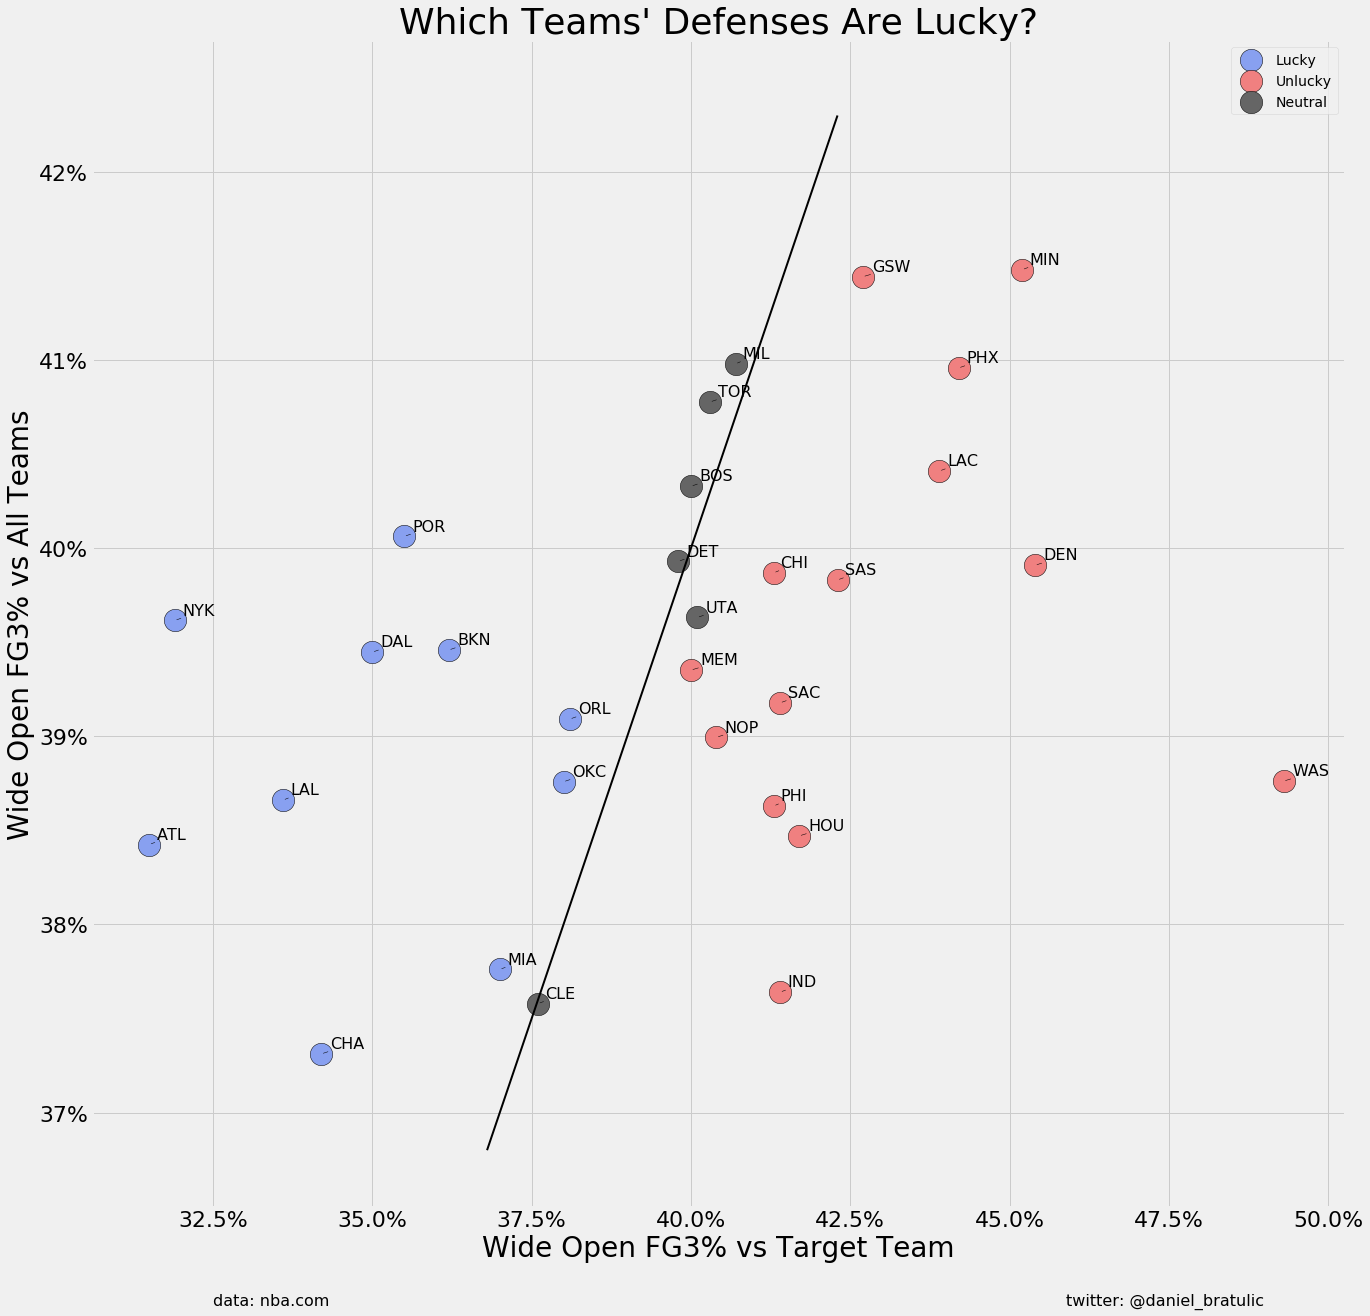
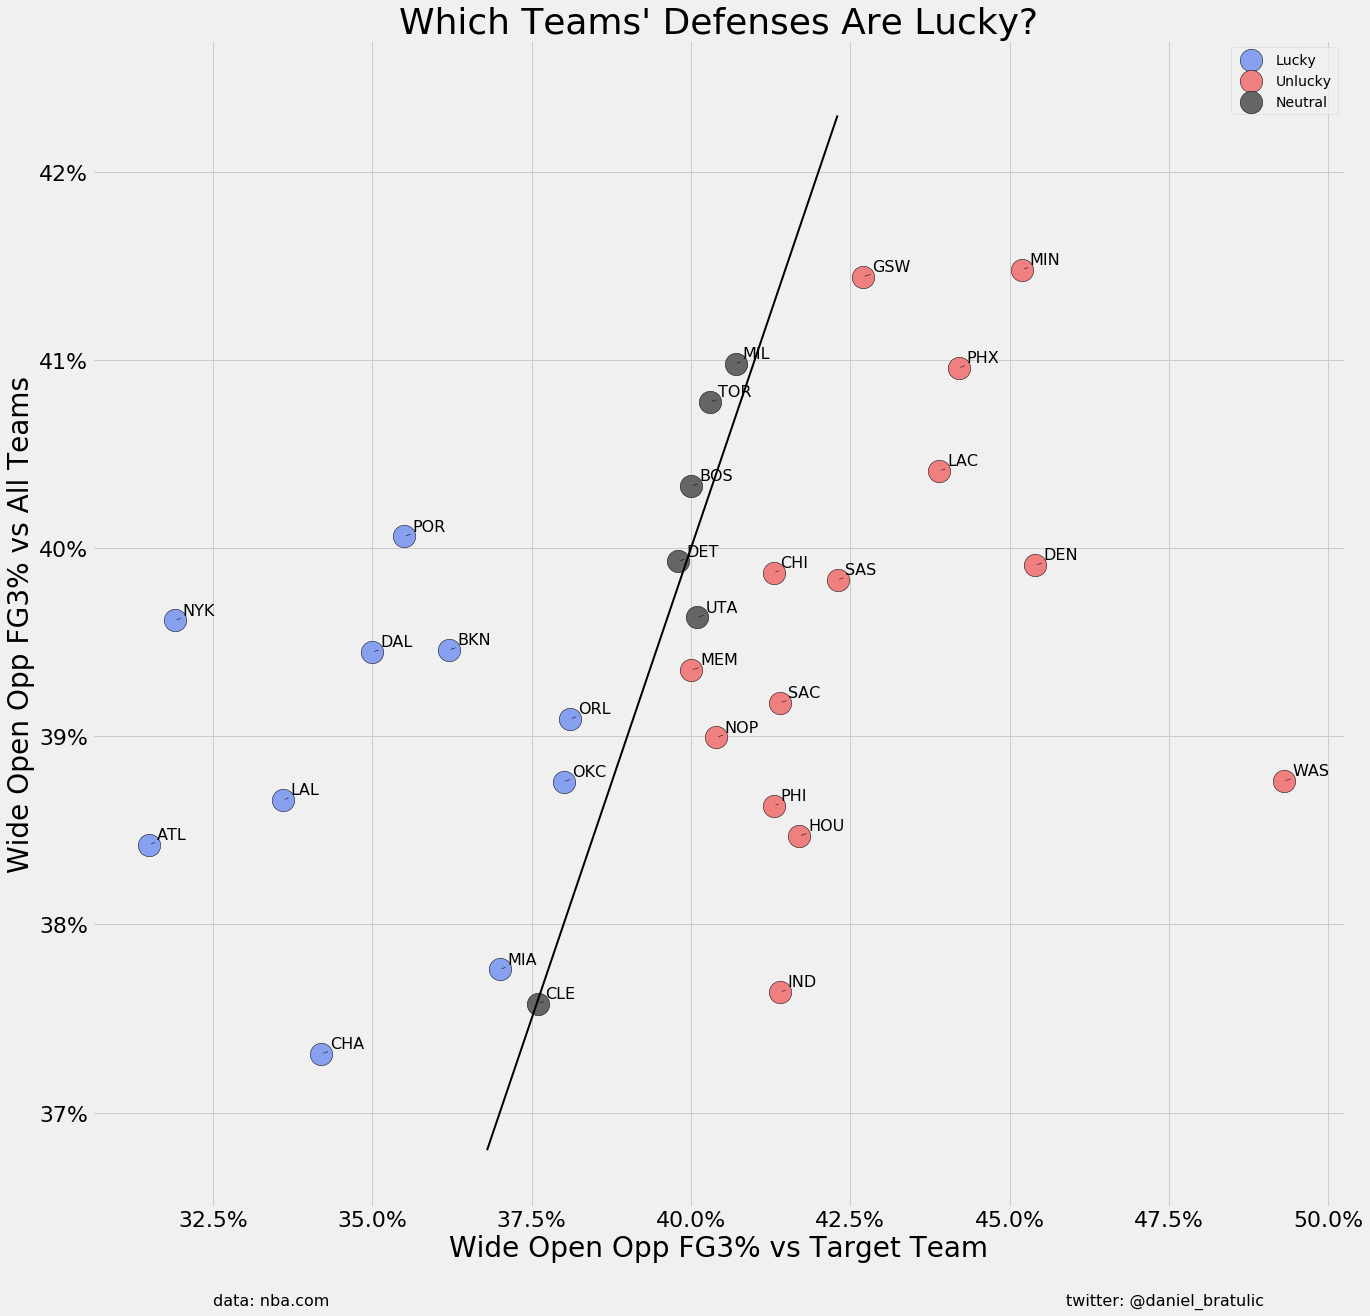
Modified texts as well

Changed region(s): [[0.3372, 0.9347, 0.7051, 0.9658], [0.0, 0.2804, 0.0307, 0.6543]]

diff --git a/en/_posts/2021-01-09-unlucky-start.md b/en/_posts/2021-01-09-unlucky-start.md
@@ -22,13 +22,13 @@ This table is all about Wide Open Shots. Shot is classified as wide open when th
 
 ## Definition of Metrics/Statistics
 
-#### ALLOWED WO FG3%
+#### WIDE OPEN OPP FG3% VS TARGET TEAM
 
 I'll first explain ALLOWED WO FG3% column, since it is easier to explain it. That is basically **FG3% of opponent's wide open three pointers against target team**. If we observe Wizards only, they "allow" 49.3% (7.7 FG3M out of 15.6 FG3A) of opponent's wide open triples.
 
 These numbers are identical to numbers on [this link](https://www.nba.com/stats/teams/opponent-shots-closest-defender/?Season=2020-21&SeasonType=Regular%20Season&CloseDefDistRange=6%2B%20Feet%20-%20Wide%20Open).
 
-#### WO FG3% BY OPP TEAMS
+#### WIDE OPEN OPP FG3% VS ALL TEAMS
 
 This metric is something else, and it is a bit tougher to explain, so I'll try to use Wizards as an example once again. Their opponents thus far have been: ORL (x2), MIN, CHI (x2), BOS, PHI (x2), BKN.
 
@@ -81,4 +81,4 @@ But such high deviation is expected at the start of the season, as it normalizes
 
 ## Conclusion
 
-With all that was written here, we can expect that such big differences in opponent's wide open 3pt% will reduce, that Knicks and Hawks are going to regress and the Wizards should win a game or two in near future. 
+With all that was written here, we can expect that such big differences in opponent's wide open 3pt% will reduce, that Knicks and Hawks are going to regress and the Wizards should win a game or two in near future.

diff --git a/hr/_posts/2021-01-09-unlucky-start.md b/hr/_posts/2021-01-09-unlucky-start.md
@@ -23,7 +23,7 @@ U ovoj tablici je riječ o širom otvorenim šutevima. To su šutevi kada je naj
 ## Definicija metrika/statistika
 
 
-#### ALLOWED WO FG3%
+#### WIDE OPEN OPP FG3% VS TARGET TEAM
 
 Prvo ću objasniti ALLOWED WO FG3% stupac, pošto ga je lakše za objasniti. On označava **FG3% na širom otvorenim tricama protivničkih timova protiv ciljane ekipe**.
 
@@ -31,7 +31,7 @@ Dakle ako gledamo Washington Wizardse ovdje, oni svojim protivnicima po utakmici
 
 Ove identične brojke možete vidjeti na ovom [linku](https://www.nba.com/stats/teams/opponent-shots-closest-defender/?Season=2020-21&SeasonType=Regular%20Season&CloseDefDistRange=6%2B%20Feet%20-%20Wide%20Open).
 
-#### WO FG3% BY OPP TEAMS
+#### WIDE OPEN OPP FG3% VS ALL TEAMS
 
 Stupac WO FG3% BY OPP TEAMS predstavlja nešto drugo, i teže za objasniti. Dakle dosadašnji protivnici Wizardsa su bili: ORL (x2), MIN, CHI (x2), BOS, PHI (x2), BKN.
 
